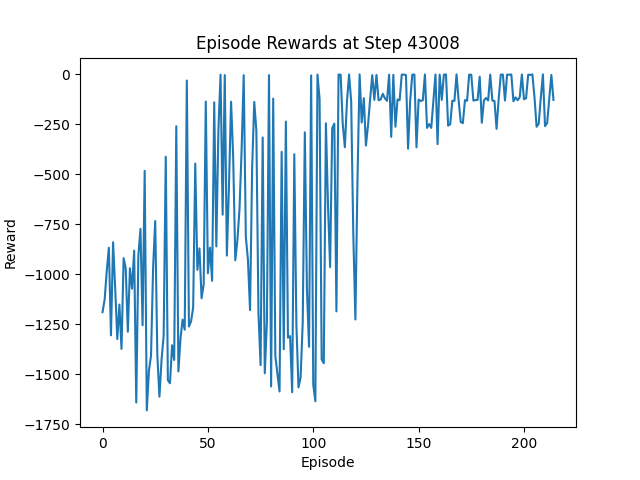
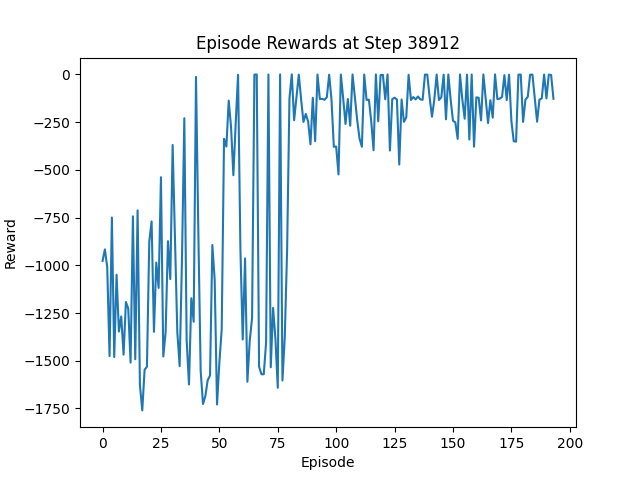
small ddpg fixes

diff --git a/actor-critic/ddpg.py b/actor-critic/ddpg.py
@@ -15,7 +15,9 @@ import matplotlib.pyplot as plt
 # Number of steps to train over
 TOTAL_STEPS = 200000
 # Number of steps to explore (sample from uniform random distribution)
-EXPLORE_STEPS = 5000
+EXPLORE_STEPS = 10000
+# std for exploration noise
+EXPLORE_STD = 0.5
 # Steps per rollouts
 BATCH_SIZE = 1024
 # Mini-Batch size
@@ -25,7 +27,7 @@ BUFFER_SIZE = 50000
 # Discount factor
 GAMMA = 0.99
 # Polyak constant for updating target networks
-POLYAK = 0.001
+POLYAK = 0.005
 # Learning rate
 ACTOR_LR = 1e-3
 CRITIC_LR = 1e-3
@@ -56,7 +58,7 @@ class Actor(nn.Module):
     def get_action(self, state, exploit=False):
         mu, std = self.forward(state)
         # sample noise from zero-mean Gaussian
-        dist, noise = Normal(mu, std), Normal(0, 1)
+        dist, noise = Normal(mu, std), Normal(0, EXPLORE_STD)
         if exploit:
             action = torch.clamp(dist.rsample(), self.action_low, self.action_high)
         else:
@@ -276,7 +278,7 @@ def eval(agent):
 
 if __name__ == '__main__':
     env_name = 'Pendulum-v1'
-    agent = DDPGAgent(env_name, seed=10, render_mode='human')
+    agent = DDPGAgent(env_name, seed=10)
     # train(agent)
     eval(agent)
 
